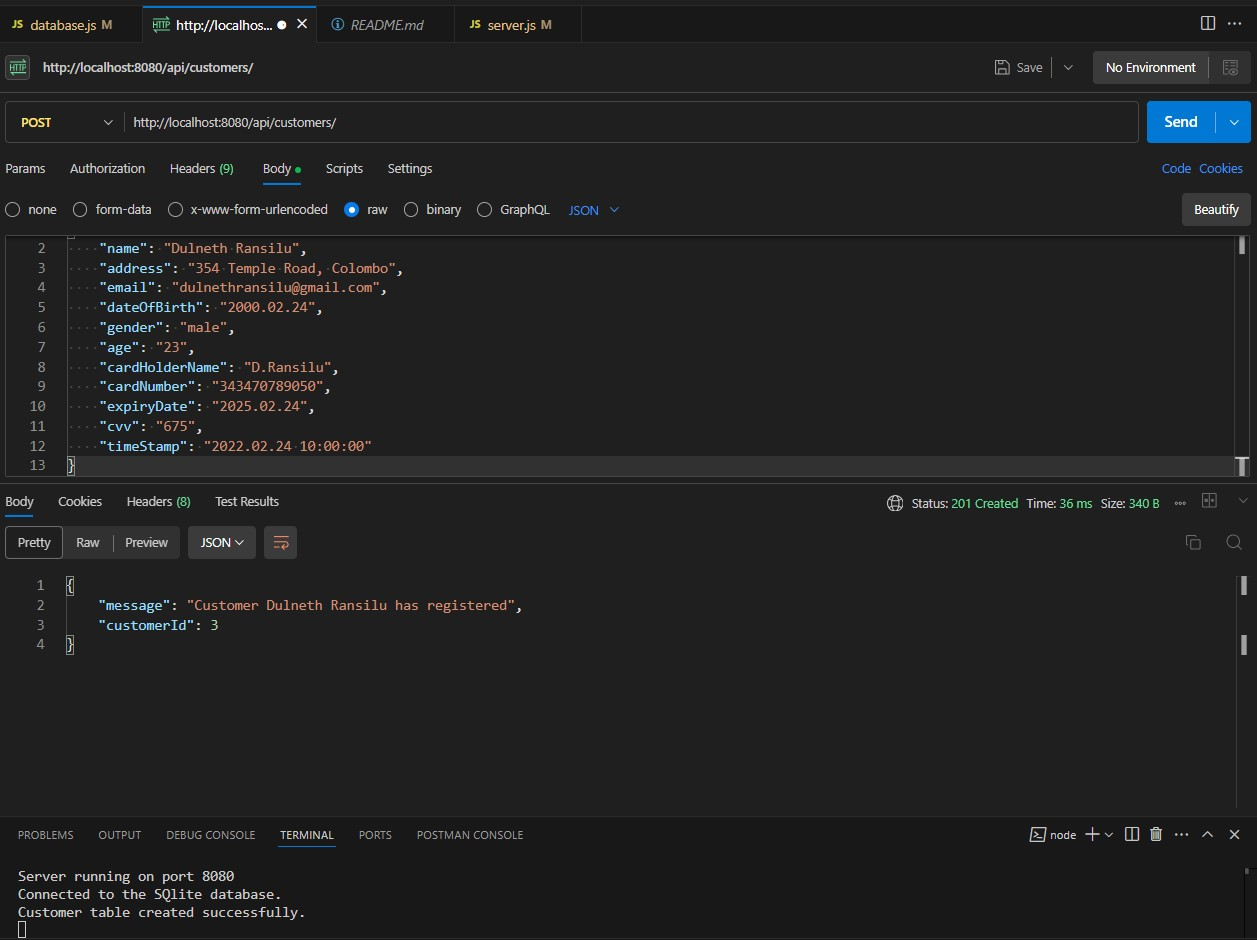
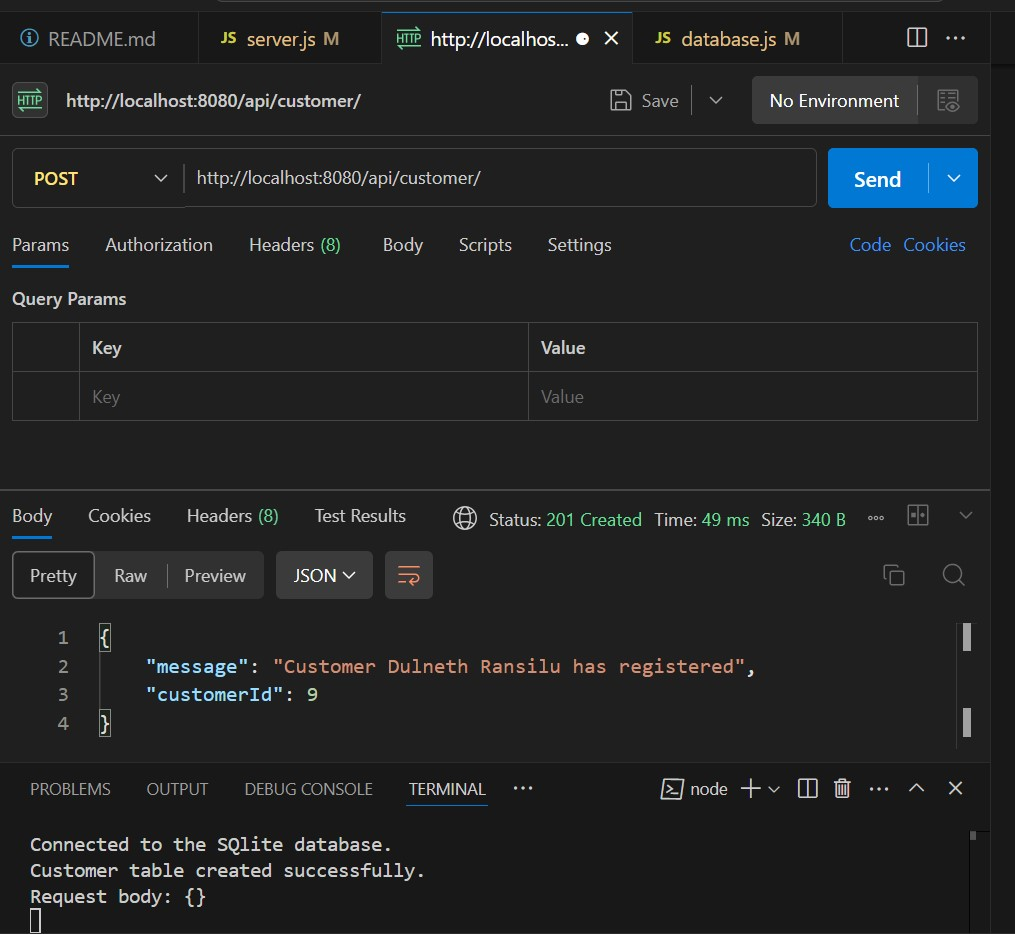
Finalized the correct experiment

diff --git a/server.js b/server.js
@@ -1,5 +1,5 @@
-var express = require("express")
-var app = express()
+const express = require("express");
+const app = express();
 var db = require("./database.js")
 var cron = require('node-cron');
 var bodyParser = require("body-parser");
@@ -13,7 +13,8 @@ app.use(cors({
     origin: '*'
 }));
 
-
+// Middleware to parse JSON request bodies
+app.use(express.json());
 
 // Start server
 app.listen(HTTP_PORT, () => {
@@ -283,44 +284,45 @@ app.delete("/api/suppliers/deleteAll/:id", (req, res, next) => {
     }
 });
 
-app.post("/api/customers/", (req, res, next) => {
+
+app.get("/api/customer/", (req, res, next) => {
     try {
+        var sql = "select * from customer"
+        var params = []
+        db.all(sql, params, (err, rows) => {
+            if (err) {
+                res.status(400).json({ "error": err.message });
+                return;
+            }
+            res.json({
+                "message": "success",
+                "data": rows
+            })
+        });
+    } catch (E) {
+        res.status(400).send(E);
+    }
+
+});
+
+app.post("/api/customer/", (req, res, next) => {
+    try {
+        console.log("Request body:", req.body);
+
+
         const {
-            name,
-            address,
-            email,
-            dateOfBirth,
-            gender,
-            age,
-            cardHolderName,
-            cardNumber,
-            expiryDate,
-            cvv,
-            timeStamp
+            name = "Dulneth Ransilu",
+            address = "354 Temple Road, Colombo",
+            email = `dulnethransilu@gmail.com`,
+            dateOfBirth = "2000.02.24",
+            gender = "male",
+            age = 18,
+            cardHolderName = "D.Ransilu",
+            cardNumber = "343470789050",
+            expiryDate = "2025.02.24",
+            cvv = "675",
+            timeStamp = new Date().toISOString()
         } = req.body;
-
-        // Validate required fields
-        if (!name || !email || !cardNumber) {
-            return res.status(400).json({
-                error: "Missing required fields: name, email, and cardNumber are mandatory."
-            });
-        }
-
-        // Email validation
-        const emailRegex = /^[^\s@]+@[^\s@]+\.[^\s@]+$/;
-        if (!emailRegex.test(email)) {
-            return res.status(400).json({
-                error: "Invalid email address format."
-            });
-        }
-
-        // Credit card number validation (12 digits)
-        const creditCardRegex = /^\d{12}$/;
-        if (!creditCardRegex.test(cardNumber)) {
-            return res.status(400).json({
-                error: "Invalid credit card number. It must be exactly 12 digits."
-            });
-        }
 
         // SQL query to insert a new customer
         const sql = `
@@ -352,28 +354,18 @@ app.post("/api/customers/", (req, res, next) => {
             timeStamp
         ];
 
-        // Execute the SQL query
+        // Insert the new customer
         db.run(sql, params, function (err) {
             if (err) {
-                
-                if (err.message.includes("UNIQUE constraint failed")) {
-                    return res.status(400).json({
-                        error: "Email already exists."
-                    });
-                }
-                return res.status(400).json({
-                    error: err.message
-                });
+                return res.status(400).json({ error: err.message });
             }
 
-           
             res.status(201).json({
                 message: `Customer ${name} has registered`,
                 customerId: this.lastID
             });
         });
     } catch (E) {
-        
         res.status(400).json({
             error: "An unexpected error occurred",
             details: E.message

diff --git a/database.js b/database.js
@@ -29,7 +29,7 @@ let db = new sqlite3.Database(DBSOURCE, (err) => {
             } else {
                 // Table just created, creating some rows
                 var insert = 'INSERT INTO products (productName, description, category, brand, expiredDate, manufacturedDate, batchNumber, unitPrice, quantity, createdDate) VALUES (?,?,?,?,?,?,?,?,?,?)'
-                db.run(insert, ["White Basmathi Rice", "White Basmathi Rice imported from Pakistan. High-quality rice with extra fragrance. Organically grown.", "Rice", "CIC", "2023.05.04", "2022.02.20", 324567, , 1020, 200, "2022.02.24"])
+                db.run(insert, ["White Basmathi Rice", "White Basmathi Rice imported from Pakistan. High-quality rice with extra fragrance. Organically grown.", "Rice", "CIC", "2023.05.04", "2022.02.20", 324567, 1020, 200, "2022.02.24"]);
             }
         })
 
@@ -69,7 +69,24 @@ let db = new sqlite3.Database(DBSOURCE, (err) => {
                 console.error("Error creating customer table:", err.message);
             } else {
                 console.log("Customer table created successfully.");
-            }
+
+                var insert = `INSERT INTO customer 
+                (name, address, email, dateOfBirth, gender, age, cardHolderName, cardNumber, expiryDate, cvv, timeStamp) 
+                VALUES (?,?,?,?,?,?,?,?,?,?,?)`;
+                db.run(insert, [
+                    "Dulneth Ransilu",
+                    "354 Temple Road, Colombo",
+                    "Dransilu@gmail.com",
+                    "2000.02.24",
+                    "male",
+                    "23",
+                    "D.Ransilu",
+                    "343470789050",
+                    "2025.02.24",
+                    "675",
+                    new Date().toISOString()
+                ]);
+                }
         });
 
 
